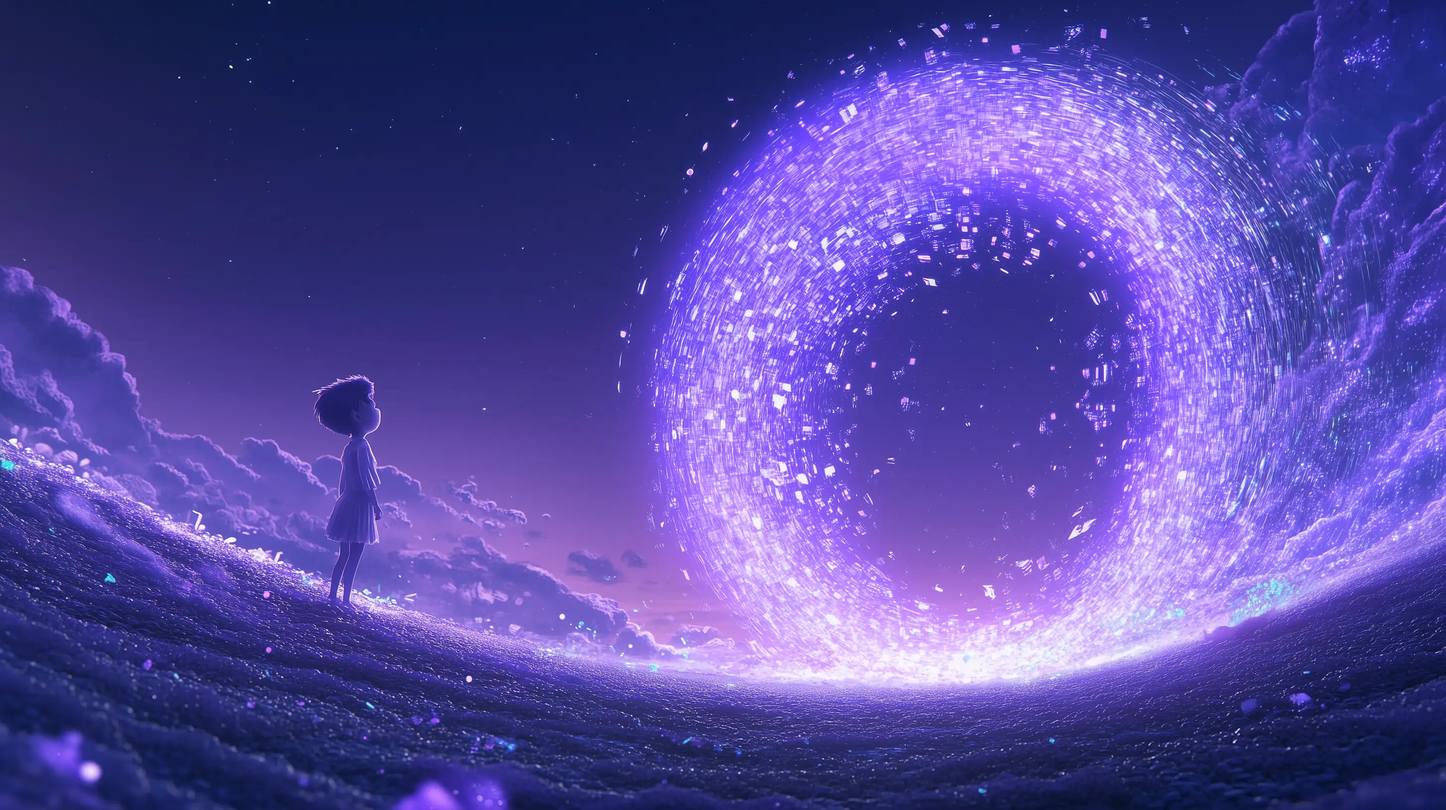
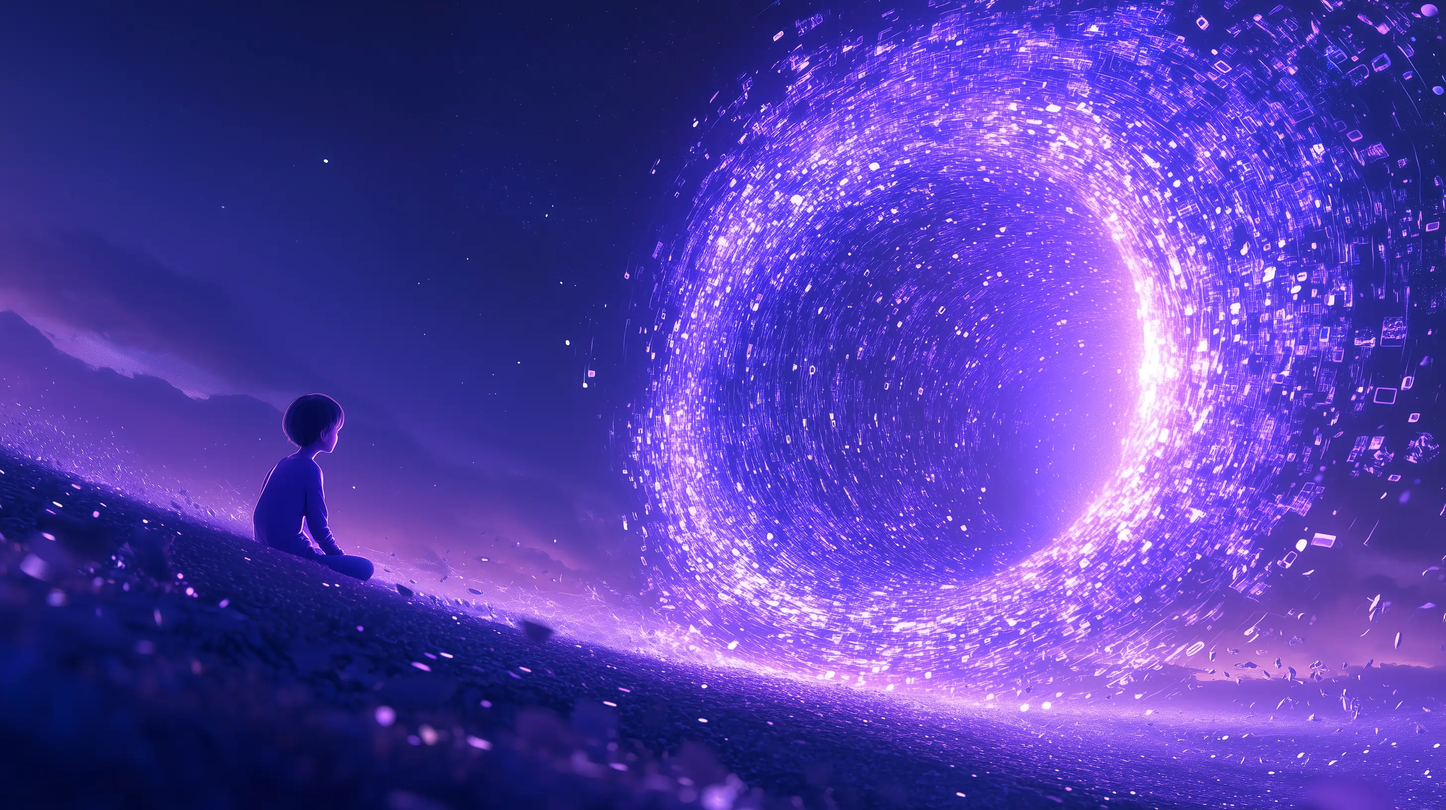
fix: update image sources for mobile and desktop, and refine Hero component styles

diff --git a/src/routes/components/Hero.svelte b/src/routes/components/Hero.svelte
@@ -251,7 +251,6 @@
 		filter: blur(15px);
 		z-index: -1;
 		transform: scale(1.2);
-		animation: glow-pulse 3s ease-in-out infinite;
 	}
 
 	@keyframes glow-pulse {
@@ -417,15 +416,20 @@
 		}
 
 		.hero-stats {
-			flex-direction: column;
-			gap: 1.5rem;
-			padding: 1.5rem;
+			padding: 1.2rem;
 			margin-bottom: 3rem;
 		}
 
-		.stat-divider {
-			width: 80%;
-			height: 1px;
+		.stat {
+			flex: 1;
+		}
+
+		.stat-number {
+			font-size: 1.5rem;
+		}
+
+		.stat-label {
+			font-size: 0.8rem;
 		}
 
 		.scroll-indicator {
@@ -477,16 +481,13 @@
 		}
 
 		.hero-stats {
-			padding: 1.2rem;
+			padding: 0.8rem;
 			margin-bottom: 5rem;
 		}
 
-		.stat-number {
-			font-size: 1.5rem;
-		}
-
-		.stat-label {
-			font-size: 0.8rem;
+		.stat-divider {
+			height: 30px;
+			width: 1px;
 		}
 
 		.scroll-indicator {

diff --git a/src/routes/+page.server.ts b/src/routes/+page.server.ts
@@ -6,8 +6,8 @@ export const load: PageServerLoad = async ({ request }) => {
 
     // Preselect the correct image based on device
     const initialImage = isMobile
-        ? '/images/landing/mobile.webp'
-        : '/images/landing/desktop.webp';
+        ? 'https://cdn.midjourney.com/b724d127-07c2-4f4b-96cd-4e931475f9a0/0_0.png'
+        : 'https://cdn.midjourney.com/7b9b1944-1700-4d3c-afff-82120c73e5aa/0_0.png';
 
     return {
         initialImage,
